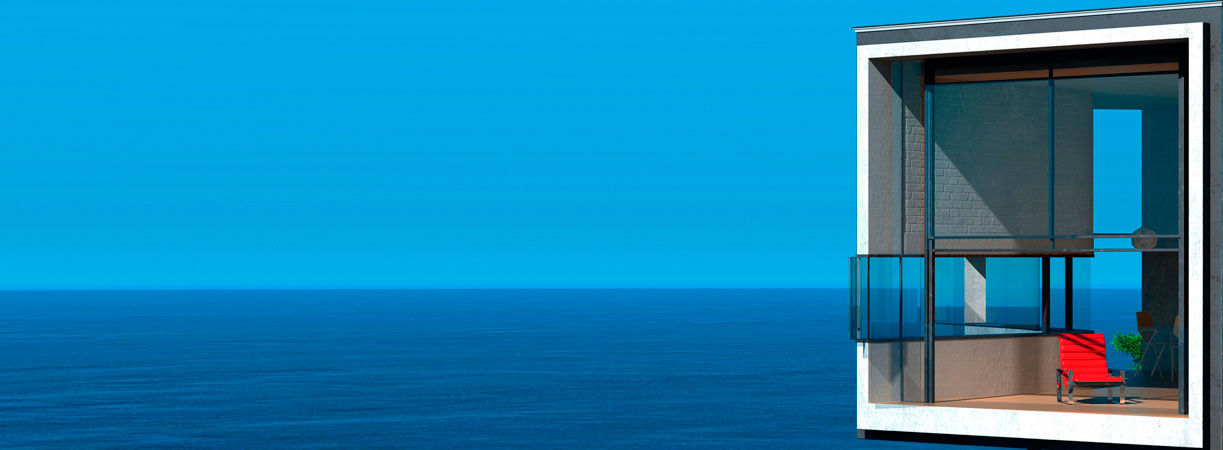
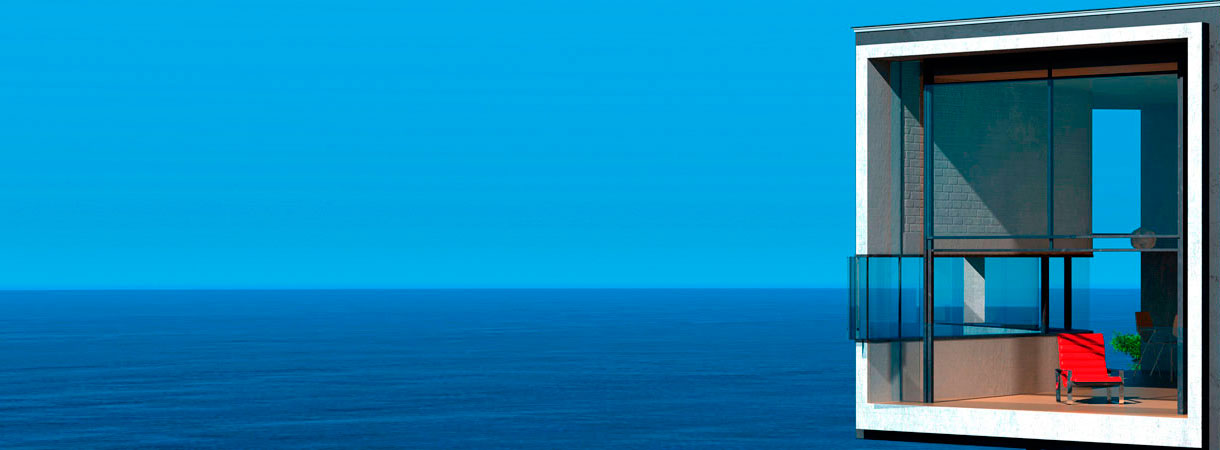
Imagenes cabecera y ajustes

Changed region(s): [[0.6852, 0.0, 1.0, 1.0], [0.7787, 0.0311, 0.841, 0.0622]]

diff --git a/style.css b/style.css
@@ -175,15 +175,14 @@ textarea {
             z-index: 100;
             top:0px;
             left: 0px;
[1 lines of base64/hex data omitted]
+            background: rgba(0,0,0,0.20);
         }
         .jumbo .slide .item {
             width: 100%;
             height: 450px;
-            background-position: top center;
-            background-repeat: no-repeat;
-            background-size:cover;
+            background-size: 100% auto;
             background-attachment: fixed;
+            background-repeat: no-repeat;
        }
     .top-header {
         position: absolute;
@@ -708,12 +707,14 @@ a img.aligncenter {
     margin: 0;
     padding: 0 4px 5px;
 }
-.bypostauthor {}
-.gallery-caption {}
-.sticky {}
 
-@media only screen and  (max-width : 1024px) {}
-@media only screen and  (max-width : 768px) {
+@media only screen and  (max-width: 1220px) {
+    .jumbo .slide .item {
+        background: #000;
+        background-size: auto auto;
+    }
+}
+@media only screen and  (max-width: 768px) {
     .main-search h1, .main-search h2 {display: none;}
     #header .nav-toggle {
         display: block;

diff --git a/header.php b/header.php
@@ -1,9 +1,10 @@
 <!DOCTYPE html>
-<html <?php language_attributes(); ?>
+<html <?php language_attributes(); ?>>
 <head>
 	<link href='http://fonts.googleapis.com/css?family=Roboto:400,300,700,900|Roboto+Condensed:400,700,300' rel='stylesheet' type='text/css'>
 	<meta charset="<?php bloginfo( 'charset' ); ?>">
 	<meta name="viewport" content="width=device-width, initial-scale=1">
+	<meta name="google-site-verification" content="1fXx-EMkArSR64VzTzdGzgelML8veS1ejluAGGO_9ts" />
 	<link rel="shortcut icon" href="<?php echo get_template_directory_uri(); ?>/favicon.png" />
 	<?php wp_head(); ?>
 </head>
@@ -26,11 +27,11 @@
 					</form>
 				</div>
 			</div>
-			<ul class="slide cycle-slideshow" data-cycle-slides="> .item" data-cycle-timeout="30000">
-				<li class="item" style="background-image:url(<?php echo get_template_directory_uri(); ?>/images/cab_001.jpg);"></li>
-				<li class="item" style="background-image:url(<?php echo get_template_directory_uri(); ?>/images/cab_002.jpg);"></li>
+			<ul class="slide cycle-slideshow" data-cycle-slides="> .item" data-cycle-timeout="15000">
 				<li class="item" style="background-image:url(<?php echo get_template_directory_uri(); ?>/images/cab_003.jpg);"></li>
+				<li class="item" style="background-image:url(<?php echo get_template_directory_uri(); ?>/images/cab_001.jpg);"></li>
 				<li class="item" style="background-image:url(<?php echo get_template_directory_uri(); ?>/images/cab_004.jpg);"></li>
+				<li class="item" style="background-image:url(<?php echo get_template_directory_uri(); ?>/images/cab_002.jpg);"></li>
 			</ul>
 		</section>
 	<?php endif ?>

diff --git a/homepage.php b/homepage.php
@@ -38,7 +38,7 @@
 				<div class="col-md-6 howto-item">
 					<img src="<?php echo get_template_directory_uri(); ?>/images/statistic.png" alt="Configura">
 					<h3 class="title mini">Viviendu para empresas</h3>
-					<div class="text">Miles de usuarios usan Viviendu para localizar las mejores propuestas en casas prefabricadas y viviendas móviles. Contacta con potenciales compradores y aumenta tus ventas.. <a href="<?php echo get_permalink(7476); ?>">Saber más</a></div>
+					<div class="text">Miles de usuarios buscan en Viviendu las mejores propuestas en casas prefabricadas y viviendas móviles. Contacta con potenciales compradores y aumenta tus ventas.. <a href="<?php echo get_permalink(7476); ?>">Saber más</a></div>
 				</div>
 			</div>
 		</div>

diff --git a/functions.php b/functions.php
@@ -92,7 +92,7 @@
 	}
 
 	// Redirección para no logueados
-	add_action('wp','proximamente');
+	//add_action('wp','proximamente');
 	function proximamente() {
 		if ( !is_user_logged_in()) { header("Location: http://google.com/"); }
 	}
